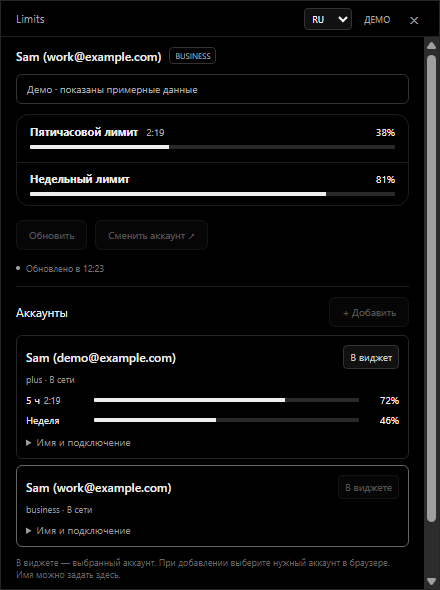
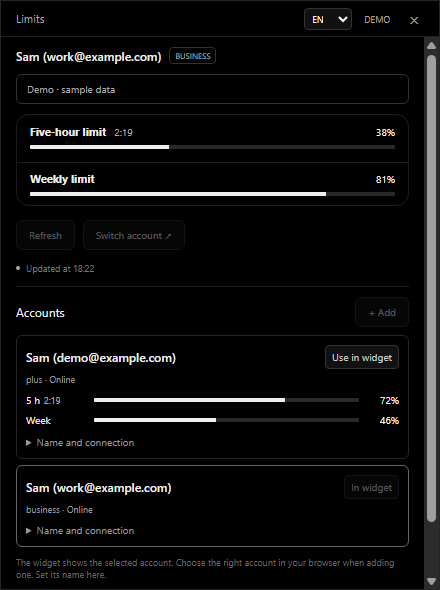
update readme

diff --git a/README.ru.md b/README.ru.md
@@ -125,6 +125,7 @@ Limits запускает локальный процесс **Codex App Server**
 
 - Интеграция Claude Code, если будет доступен подходящий источник данных о лимитах.
 - Интеграция DeepSeek, если будет доступен подходящий источник данных о лимитах.
+- Автообновление: при выходе новой версии появляется модальное окно с предложением обновиться.
 - Настраиваемые уведомления о низком остатке и приближении сброса.
 - Расширение поддержки рабочих столов Linux и автозапуск Linux.
 

diff --git a/README.md b/README.md
@@ -123,6 +123,7 @@ These are ideas for future work, not current features:
 
 - Claude Code integration, subject to availability of a suitable usage data source.
 - DeepSeek integration, subject to availability of a suitable usage data source.
+- Automatic updates, with a modal dialog offering to install a new version when one is available.
 - Configurable low-usage and approaching-reset notifications.
 - Broader Linux desktop support and Linux autostart.
 
